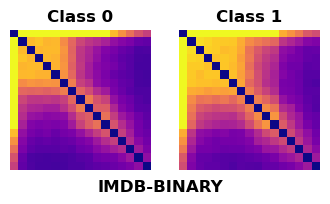
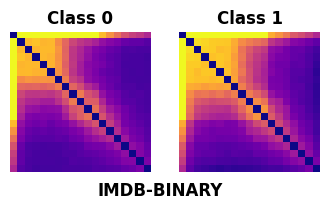
uses average number of nodes in experiment 1

Changed region(s): [[0.0303, 0.1471, 0.9697, 0.9412], [0.6364, 0.0294, 0.8788, 0.1176], [0.1515, 0.0294, 0.3636, 0.1176]]

diff --git a/src/experiment1.py b/src/experiment1.py
@@ -1,0 +1,62 @@
+import torch
+from torch_geometric.datasets import TUDataset
+import os.path as osp
+from gmixup import prepare_dataset_onehot_y
+from utils import split_class_graphs
+from graphon_estimator import universal_svd, largest_gap
+from utils import align_graphs, stat_graph
+import random
+import matplotlib.pyplot as plt
+import matplotlib as mpl
+
+import numpy as np
+from mpl_toolkits.axes_grid1 import make_axes_locatable
+
+dataset_names = ['IMDB-BINARY', 'REDDIT-BINARY', 'IMDB-MULTI']
+# graphon_sizes = [17, 15, 12]
+data_path = './'
+align_max_size = 1000
+
+for dataset_name in dataset_names:
+    path = osp.join(data_path, dataset_name)
+    dataset = TUDataset(path, name=dataset_name)
+    dataset = list(dataset)
+    print('---- WORKING WITH DATASET ' + dataset_name + ' ------')
+
+    # TODO what does this line do? I guess it assigns a class to each graph (comment by Vuk on 1.11.2022)
+    for graph in dataset:
+        graph.y = graph.y.view(-1)
+
+    dataset = prepare_dataset_onehot_y(dataset)
+    random.seed(1314)
+    random.shuffle(dataset)
+    avg_num_nodes, avg_num_edges, avg_density, median_num_nodes, median_num_edges, median_density = stat_graph(
+        dataset)
+    print('Median num nodes: ', int(median_num_nodes))
+    print('Avg num nodes: ', int(avg_num_nodes))
+    graphon_size = int(avg_num_nodes)
+    # TODO what does this split_class_graphs method does
+    class_graphs = split_class_graphs(dataset)
+    print('Finished splitting class graphs')
+    fig, ax = plt.subplots(1, len(class_graphs), figsize=(2 * len(class_graphs), 2), facecolor='w')
+    if dataset_name == 'IMDB-MULTI':
+        fig.subplots_adjust(right=0.9)
+        cbar_ax = fig.add_axes([0.92, 0.2, 0.02, 0.6])
+    graphons = []
+    for label, graphs in class_graphs:
+        align_graphs_list, normalized_node_degrees, max_num, min_num = align_graphs(
+            graphs[:align_max_size], padding=True, N=int(graphon_size))
+        print('Finished aligning graphs of label ', label)
+        graphon = largest_gap(align_graphs_list, k=graphon_size)
+        np.fill_diagonal(graphon, 0)  # Confirmed in correspondence with the author
+        graphons.append((label, graphon))
+
+    for (label, graphon), axis, i in zip(graphons, ax, range(len(graphons))):
+        print(f"graphon info: label:{label}; mean: {graphon.mean()}, shape, {graphon.shape}")
+        im = axis.imshow(graphon, vmin=0, vmax=1, cmap=plt.cm.plasma)
+        axis.set_title(f"Class {i}", weight="bold")
+        axis.axis('off')
+    if dataset_name == 'IMDB-MULTI':
+        fig.colorbar(im, cax=cbar_ax, orientation='vertical')
+    fig.suptitle(dataset_name, y=0.1, weight="bold")
+    plt.savefig(f'../fig/{dataset_name}.png', facecolor='white', bbox_inches='tight')

diff --git a/src/gmixup.py b/src/gmixup.py
@@ -1,6 +1,4 @@
-from time import time
 import logging
-import os
 import os.path as osp
 import numpy as np
 import time
@@ -15,8 +13,7 @@ from torch.autograd import Variable
 import random
 from torch.optim.lr_scheduler import StepLR
 
-from utils import stat_graph, split_class_graphs, align_graphs
-from utils import two_graphons_mixup, universal_svd
+from utils import stat_graph, split_class_graphs, align_graphs, two_graphons_mixup, universal_svd
 from graphon_estimator import universal_svd
 from models import GIN
 
